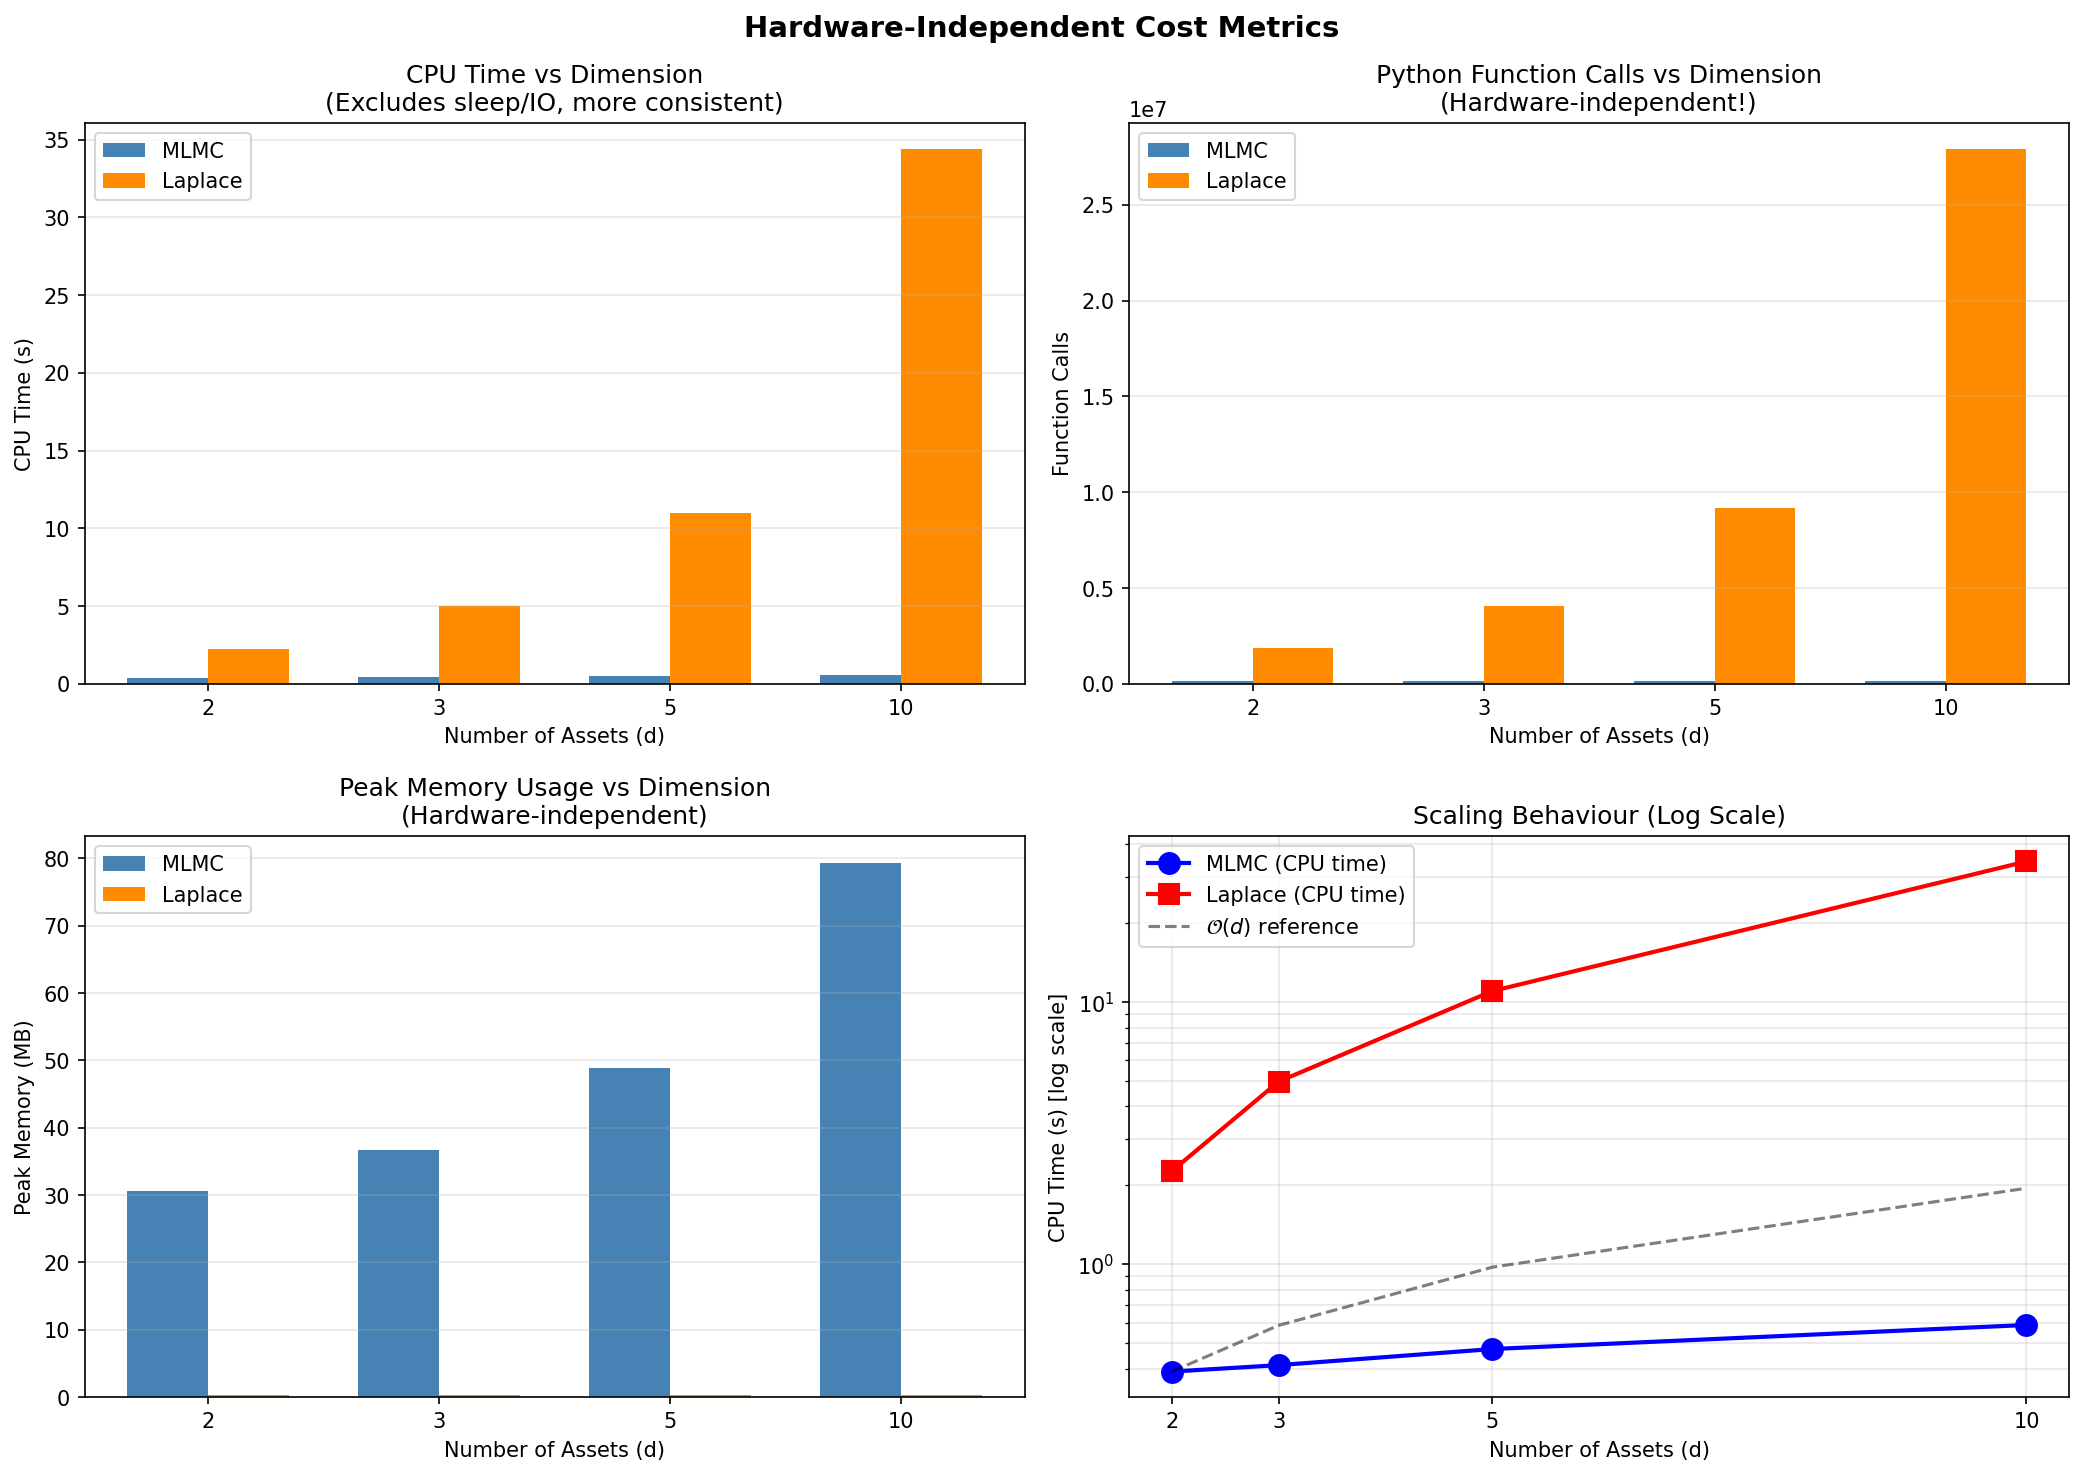
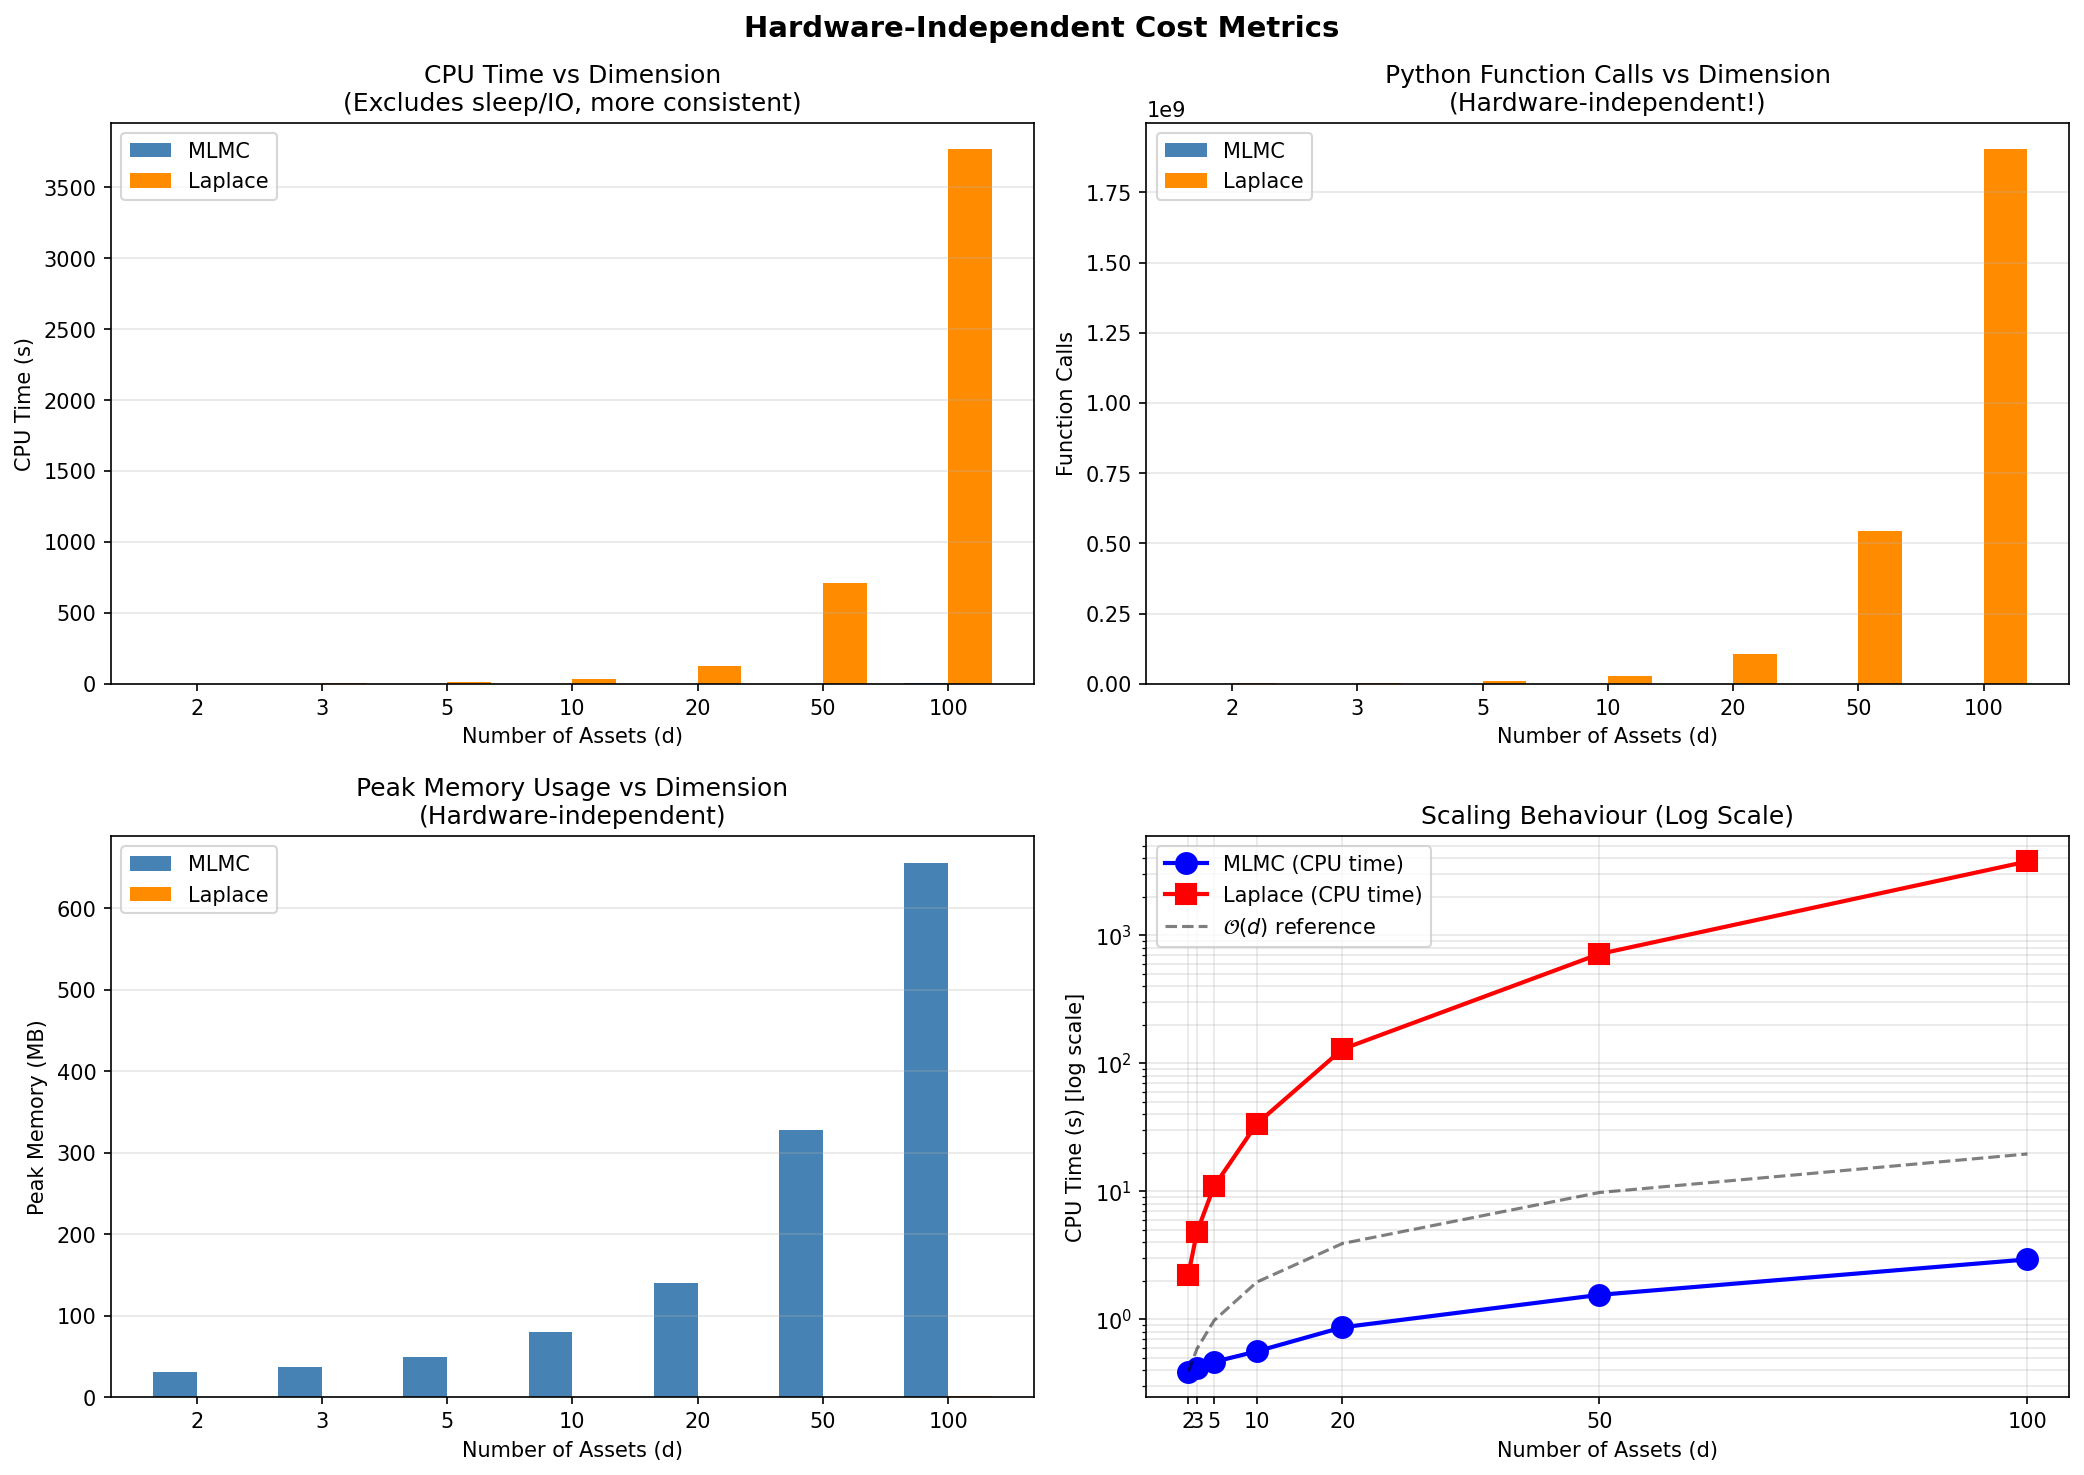
Update exp3 dimension scaling results and figures
Expanded and updated the exp3_dimension_scaling.md table with new data for higher dimensions and revised existing values. Updated related figures to reflect the new results.

diff --git a/Comparison_Between_Methods/results/tables/exp3_dimension_scaling.md b/Comparison_Between_Methods/results/tables/exp3_dimension_scaling.md
@@ -9,19 +9,25 @@ Neither method is ground truth.
 
 | d | MLMC Time (s) | Laplace Time (s) | L² Disagreement | L∞ Disagreement |
 |---|---------------|------------------|-----------------|------------------|
-| 2 | 0.39 | 2.27 | 0.0018 | 10.3136 |
-| 3 | 0.41 | 5.00 | 0.0057 | 46.5437 |
-| 5 | 0.48 | 11.06 | 0.0028 | 40.2860 |
-| 10 | 0.59 | 34.46 | 0.0103 | 265.5721 |
+| 2 | 0.39 | 2.23 | 0.0018 | 10.3136 |
+| 3 | 0.41 | 4.80 | 0.0057 | 46.5437 |
+| 5 | 0.47 | 11.03 | 0.0028 | 40.2860 |
+| 10 | 0.56 | 33.83 | 0.0103 | 265.5721 |
+| 20 | 0.88 | 129.27 | 0.0448 | 3028.2342 |
+| 50 | 1.53 | 714.73 | 0.2299 | 46740.1620 |
+| 100 | 2.89 | 3815.46 | 1.8745 | 8335971.8830 |
 
 ## Hardware-Independent Cost Metrics
 
 | d | MLMC CPU (s) | Laplace CPU (s) | MLMC Calls | Laplace Calls | MLMC Mem (MB) | Laplace Mem (MB) |
 |---|--------------|-----------------|-----------|---------------|---------------|------------------|
-| 2 | 0.39 | 2.27 | 143,829 | 1,882,129 | 30.6 | 0.3 |
-| 3 | 0.41 | 4.97 | 143,829 | 4,045,368 | 36.6 | 0.3 |
-| 5 | 0.48 | 11.01 | 143,829 | 9,176,723 | 48.8 | 0.3 |
-| 10 | 0.59 | 34.37 | 143,829 | 27,891,525 | 79.4 | 0.3 |
+| 2 | 0.39 | 2.23 | 143,829 | 1,882,129 | 30.6 | 0.3 |
+| 3 | 0.41 | 4.80 | 143,829 | 4,045,368 | 36.6 | 0.3 |
+| 5 | 0.47 | 10.95 | 143,829 | 9,176,723 | 48.8 | 0.3 |
+| 10 | 0.56 | 33.74 | 143,829 | 27,891,525 | 79.4 | 0.3 |
+| 20 | 0.87 | 128.98 | 143,829 | 105,791,457 | 140.4 | 0.3 |
+| 50 | 1.56 | 713.45 | 143,829 | 544,758,689 | 328.1 | 0.5 |
+| 100 | 2.94 | 3766.12 | 143,829 | 1,902,682,059 | 656.2 | 1.1 |
 
 ## Key Observations
 
